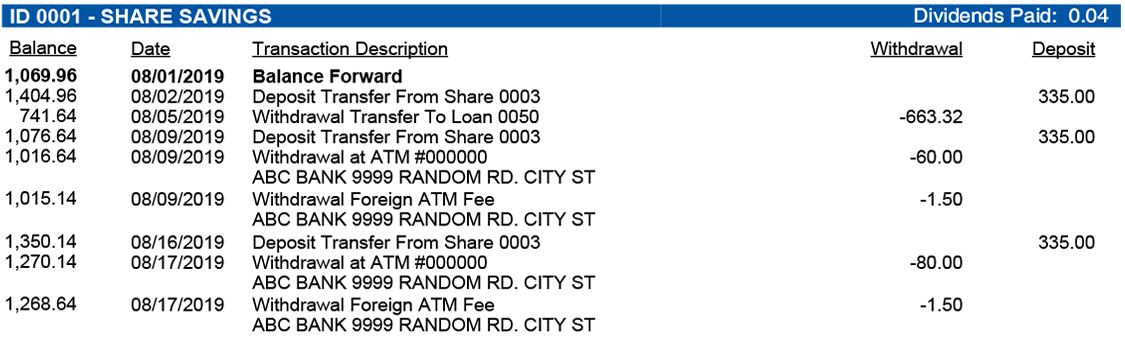
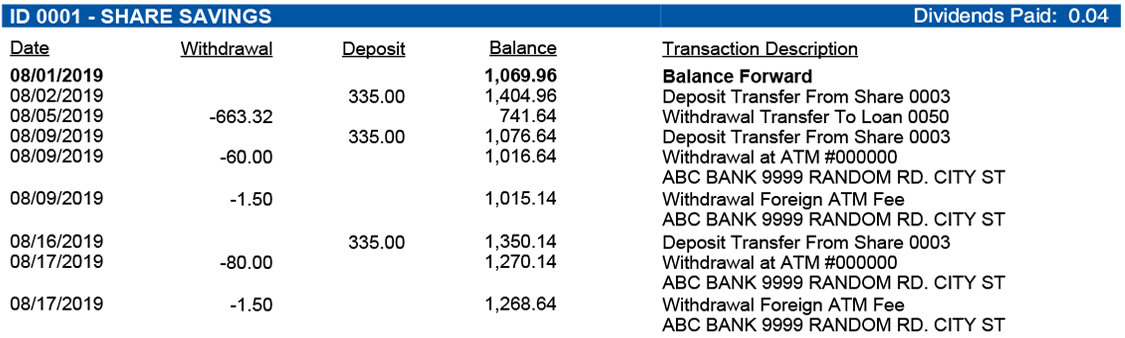
Transacitons Details Reg asset: BalanceLeft: Reordered columns to match doxim standards

diff --git a/src/app/build-page/survey-pane/survey-pane.component.html b/src/app/build-page/survey-pane/survey-pane.component.html
@@ -234,7 +234,7 @@
           <div class="statementQs">
             <form>
               <!-- Display Balance on the Left component -->
-              <input type="radio" (change)="setTransaction($event)" class="form-radio" name="transactionLevel" value="balanceLeft">Balance on the Left<br>
+              <input type="radio" (change)="setTransaction($event)" class="form-radio" name="transactionLevel" value="balanceLeft">Balance Left of Description<br>
               <!-- Display Balance on the Right component -->
               <input type="radio" (change)="setTransaction($event)" class="form-radio" name="transactionLevel" value="balanceRight" checked>Balance on the Right<br>
               <!-- Amount and Running Balance Only -->
